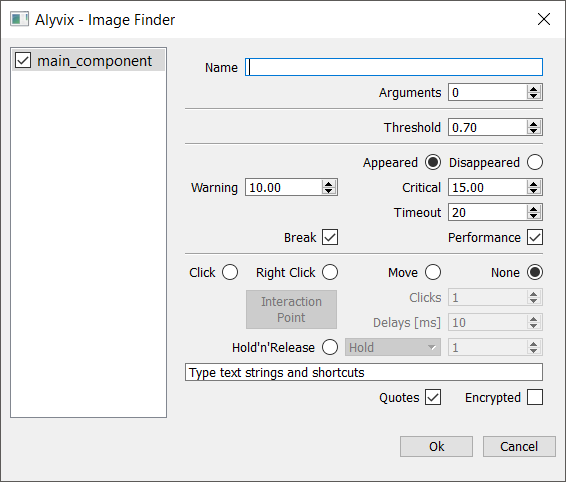
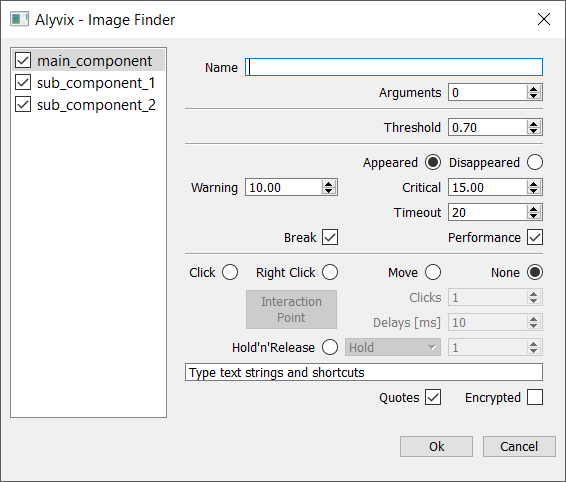
update test case building section

Changed region(s): [[0.03, 0.1556, 0.2703, 0.249]]

diff --git a/test_case_building/visual_keywords.rst b/test_case_building/visual_keywords.rst
@@ -10,24 +10,26 @@ Visual keywords
 Keyword definition
 ==================
 
-The :ref:`Alyvix button <testcase_editor-editor_buttons>` opens the **selector of visual keywords** (that has been previously defined by the user) for the current test case (e.g. ``alyvix_website``, so that its keyword library would be ``AlyvixProxyalyvix_website`` ``.py``). The selector lists the name and the type of each keyword: `[IF]` means Image Finder, `[RF]` means Rect Finder, `[TF]` means Text Finder and `[OF]` stays for Object Finder.
+The :ref:`Alyvix button <testcase_editor-editor_buttons>` opens the **selector of visual keywords** (that has been previously defined by the user) for the current test case (e.g. ``alyvix_website``, so that its keyword library would be ``AlyvixProxyalyvix_website`` ``.py``). The selector shows the name and the type of each keyword: *[IF]* means :ref:`Image Finder <visual_keywords-image_finder>`, *[RF]* means :ref:`Rect Finder <visual_keywords-rect_finder>`, *[TF]* means :ref:`Text Finder <visual_keywords-text_finder>` and *[OF]* stays for :ref:`Object Finder <visual_keywords-object_finder>`.
 
 .. note::
-    Imported keywords from other Alyvix test case libraries (e.g. ``citrix_outlook``, so that its keyword library would be ``AlyvixProxycitrix_outlook`` ``.py``) are not listed in the selector window. You can edit keywords of a certain test case just opening that test case.
+    *Imported keywords* from other *Alyvix test case libraries* (e.g. ``citrix_outlook``, so that its keyword library would be ``AlyvixProxycitrix_outlook`` ``.py``) are *not* listed in the selector window. You can edit keywords in a certain test case library just opening that test case.
 
 ..
 
     .. image:: pictures/ride_05a_keyword_selector.png
 
-The *New* button opens the selector of the Alyvix Finders to define a new visual keyword. The *Edit* button brings to the Finder dialog of the selected keyword, in order to modify its properties (e.g. component and ROI selections, detection and interaction settings, performance thresholds). The *Remove* button deletes the selected keywords or in case of Object Finder keywords, crumbles them into its basic components (e.g. IF, RF, TF).
+The *New* button opens the selector of :ref:`Alyvix Finders <visual_keywords-alyvix_finders>`. The *Edit* button brings to the Finder dialog of the selected keyword, in order to modify its properties (e.g. component and ROI selections, detection and interaction settings, performance thresholds). The *Remove* button deletes the selected keywords or, in case of :ref:`Object Finder <visual_keywords-object_finder>` keywords, crumbles them into its basic components (IF, RF, TF).
 
     .. image:: pictures/ride_05b_finder_selector.png
 
-The Alyvix Finder selector allows selecting the type of a new keyword to define. The ``Delay`` spin control delays the subsequent selection of the main component to start defining a keyword of the selected type.
+The selector of the :ref:`Alyvix Finders <visual_keywords-alyvix_finders>` allows you to select the type (image, rectangle, text, object) of a new keyword to define. The ``Delay`` spin control delays of a given amount of seconds the subsequent selection of components on screen. The graphic definition a visual keyword freezes your screen, in order to select components. Increase the delay if you need time to trigger a certain state of the screen (e.g. opening a menu in an app dialog).
 
-Start defining a custom keyword means visually selecting its components: one main selection is necessary, but then multiple sub selections are possible. The reasons for sub components are to detect application transactions in a more complete (GUI rendering could be element-by-element) and robust (the same GUI element could be used twice) way, besides being able to interact with more GUI elements (i.e. not just with the main component).
+Start defining a *visual keyword* means selecting its components on screen: one *main selection* is necessary, but then multiple *sub selections* are possible. Sub components are selected within their *region of interests*. The latter *ROI* are useful to link sub components to the main component. Each Alyvix Finder has a procedure to select its components and ROI. The important reasons for sub components and their ROI follow below. The detection of application transactions can be:
 
-Each Alyvix Finder has its own procedure to select its components and ROI to bind subs to the main.
+* more *complete*: GUI rendering could be element-by-element, so it could be necessary to detect several components to check a completed transaction; moreover, it is possible to interact with several GUI elements and not just with one;
+* more *robust*: the same GUI element could be used twice, so it could be necessary to define a unique transaction selecting more components;
+* more *flexible*: the same GUI element could be rendered in a different position, so it is necessary to link sub to main components through ROI; moreover, ROI are also useful to restrict the screen area to process, in order to filter out the rest and to save computation time.
 
 
 .. _visual_keywords-image_definition:
@@ -37,18 +39,21 @@ Image Finder main and subs
 
     .. image:: pictures/ride_07a_if_main_sub.png
 
-An example GUI shows three identical stars, but a possible transaction could be interacting with the third, left to the green sign. Selecting just the star, as a main component, is not enough: Alyvix is going to detect all the three stars and to interact with the first one, because of a raster logic scanning the screen.
-To correctly define the keyword, it is necessary to also select the green sign as a sub component. Sub components of Image Finders lies in their ROI. The upper left corner of ROI are all binded with the upper left corner of the main component selection.
+An example GUI shows three identical stars and a possible transaction could be to **interact with the third star**, which is left to the green sign.
+
+Selecting just the third star, as a main component of an *Image Finder*, is not enough. It would be an ambiguous transaction: the three stars have exactly the same aspect. Alyvix detects all the three stars and then interacts with the first one, because of the raster logic of screen scanner.
+
+To correctly define the keyword, it is necessary to **select the green sign as a sub component**. Remember that sub components of Image Finders are selected within their ROI. The upper left corner of ROI are linked with the upper left corner of the main component selection.
 
     .. image:: pictures/ride_07bb_if_main_sub.png
 
 ..
 
-    1. Selection of main component inside the screen
-    2. Selection of the ROI of the sub component 1 inside the screen
-    3. Selection of the sub component 1 inside its ROI
-    4. Eventual repetition of 2. and 3. to add more and more sub components
-    5. Press CTRL + O to access the setting dialog of the Image Finder
+    1. Select the **main component** inside the screen;
+    2. select the **ROI** of the sub component 1 inside the screen;
+    3. select the **sub component** 1 inside its ROI;
+    4. eventually repeat 2. and 3. to add more sub components;
+    5. press :kbd:`CTRL+O` to set the :ref:`IF keyword properties <visual_keywords-image_finder>`.
 
 
 .. _visual_keywords-rect_definition:
@@ -58,7 +63,7 @@ Rect Finder main and subs
 
     .. image:: pictures/ride_07c_rf_main_sub.png
 
-An example GUI shows three identical edit boxes, but a possible transaction could be interacting with the third, left to the ‘OK’ button. Selecting just the edit box, as a main component, is not enough: Alyvix is going to detect all the three edit boxes and to interact with the first one, because of a raster logic scanning the screen.
+An example GUI shows three identical text boxes, but a possible transaction could be interacting with the third, left to the ‘OK’ button. Selecting just the text box, as a main component, is not enough: Alyvix is going to detect all the three text boxes and to interact with the first one, because of a raster logic scanning the screen.
 To correctly define the keyword, it is necessary to also select the ‘OK’ button as a sub component. Sub components of Rect Finders lies in their ROI. The upper left corner of ROI are all binded with the upper left corner of the main component selection.
 
     .. image:: pictures/ride_07db_rf_main_sub.png
@@ -121,19 +126,55 @@ The most common and useful Object Finder combinations are IF + TF and RF + TF.
 Alyvix Finders
 ==============
 
-All the dialogs of Alyvix Finders have in common most of their settings. Right after the component selection of an Alyvix Finder, the  CTRL  +  O  shortcut opens the setting dialog of the Finder where to finalize the definition of an Alyvix custom keyword.
+The *Alyvix Finders* are the GUI tools to **visually define application transactions**. You can build *Alyvix visual keywords* with the Alyvix Finders. Finally, you can automate application transactions running Alyvix visual keywords in test cases. There are three Alyvix Finders, one for each **type of visual element to detect** on screen: images, rectangles and text. The *Object Finder* group together basic Alyvix Finders (IF, RF, TF) in order to detect and interact with **different types of visual elements** running one single keyword (e.g. a login form made of text boxes, their labels on a side and a brand logo in a corner).
 
-The ‘Graphic Design’ tab is the richest of settings. First of all, type the custom keyword name. The best practice is to type a lowercase name, with underscores, no spaces and a structure as the following: <testcase sub section name>_<transaction name>_<finder type> (e.g.mywebsite_homepage_img).
+After the :ref:`selection of an Alyvix Finder <visual_keywords-keyword_definition>` and the :ref:`selection of main and sub components <visual_keywords-image_definition>`, press :kbd:`CTRL+O` to **show the setting dialog**. The Image, Rect and Text Finders have in common most of their settings:
 
-In the left pane there are all the components previously selected: tick or untick them to visualize their selection and ROI on screen or not. Click on each component to set its name, its detection and interaction options.
+* :ref:`Name and components <visual_keywords-name_components>`
+* :ref:`Detection settings <visual_keywords-detection_settings>`
+* :ref:`Interaction settings <visual_keywords-interaction_settings>`
+
+The :ref:`Image Finder <visual_keywords-image_finder>` has its own similarity threshold, the :ref:`Rect Finder <visual_keywords-rect_finder>` has sizing thresholds and the :ref:`Text Finder <visual_keywords-text_finder>` has regular expression filters. The :ref:`Object Finder <visual_keywords-object_finder>` dialog is designed to link together the previous basic Alyvix Finders.
+
+
+.. _visual_keywords-name_components:
+
+Name, arguments and components
+------------------------------
+
+After having :ref:`visually define a keyword <visual_keywords-image_definition>`, the first thing to do is to insert the **keyword name** in the *Name* text box. The best practice is to type **in lowercase**, **with underscores**, **no spaces** and structured as follows: ``<application name>_<transaction name>_<transaction state>`` (e.g. ``citrix_loginform_ready``, ``ax12_dynamicsax_closed``). Append the ``_<keyword type>`` if you plan to use the keyword in an :ref:`Object Finder <visual_keywords-object_finder>`.
+
+You can declare a number of **argument variables as the keyword inputs**. You can then type ``arg1``, ``arg2``, etc. in the :ref:`interaction text box <visual_keywords-interaction_settings>` below. Alyvix will run the keyword taking its **arguments from the test case editor**: in the cells right from where you insert the keyword name, you can type its **arguments as text strings**.
+
+    .. image:: pictures/ride_11a_alyvix_2-4-1_gui_name.png
+
+In the left pane of the dialog there are all the **components** previously selected on screen: tick (or untick) them to visualize (or not) their selection and ROI on screen. Click on each component to set its own detection and interaction properties.
+
+    .. image:: pictures/ride_11b_alyvix_2-4-1_gui_components.png
+
+
+.. _visual_keywords-detection_settings:
+
+Detection settings
+------------------
 
 Three are the detection modes. ‘Wait’ means Alyvix continuously tries and retries to detect the graphic elements on screen at a certain pace (by default this period is 2.5s, but it is customizable thanks to the basic keywords Alyvix Config and Set Alyvix Info). That continues until the ‘Timeout’ threshold will be reached: if the ‘Exception’ option is ticked, then the keyword breaks the test case, otherwise it returns False and lets the test to proceed. The latter option is useful in case of transactions that not always happen (e.g. to manage popups). ‘Wait Disappear’ allows to detect the disappearance of graphic elements of screen (e.g. disappearance of an hourglass icon at the end of a loading).
 
+Finally, the ‘Performance Data’ tab shows the performance settings. First, the ‘Enable Performance’ check box to enable or to disable the performance measurement: for example, in case of automation transactions, that are defined to reach the interesting parts of user flows, we do not care about performances. Second, in the two text boxes we can set the amount of seconds of Warning and Critical thresholds.
+
+    .. image:: pictures/ride_11c_alyvix_2-4-1_gui_detection.png
+
+
+.. _visual_keywords-interaction_settings:
+
+Interaction settings
+--------------------
+
 The available interaction options are self-explained. ‘Click’, ‘Right Click’ and ‘Double Click’ means Alyvix will bring instantly the mouse pointer over the detected component and interact with it pressing, respectively, one time the left button of the mouse, one time the right button of the mouse and two times the left button of the mouse. ‘Move’ will bring instantly the mouse pointer over the detected component without sending any keystroke. ‘Don’t Move’ will do nothing with a component after its detection.
 
-At the bottom of the ‘Graphic Design’ window, typing settings take place. Within the edit box can be inserted text strings and shortcuts to send (most of the time after a ‘Click’ interaction somewhere). Regular text strings can be typed together with shortcuts (e.g. bla{enter}). You can find a list of the most useful shortcuts in the description of  Send Keys basic keyword. However, it is also possible to bring the keyword arguments as part of the keystrokes to send. In this latter case, it is necessary to untick ‘Add Quotes’, then to add one more argument under the ‘Source Code’ tab (click up at the ‘Args’ spin box) and finally use the argument variable alone (e.g. arg1) or properly formatted with the rest, as following example: “bla{enter}”+arg1+”{enter}”.
+At the bottom of the ‘Graphic Design’ window, typing settings take place. Within the text box can be inserted text strings and shortcuts to send (most of the time after a ‘Click’ interaction somewhere). Regular text strings can be typed together with shortcuts (e.g. bla{enter}). You can find a list of the most useful shortcuts in the description of  Send Keys basic keyword. However, it is also possible to bring the keyword arguments as part of the keystrokes to send. In this latter case, it is necessary to untick ‘Add Quotes’, then to add one more argument under the ‘Source Code’ tab (click up at the ‘Args’ spin box) and finally use the argument variable alone (e.g. arg1) or properly formatted with the rest, as following example: “bla{enter}”+arg1+”{enter}”.
 
-Finally, the ‘Performance Data’ tab shows the performance settings. First, the ‘Enable Performance’ check box to enable or to disable the performance measurement: for example, in case of automation transactions, that are defined to reach the interesting parts of user flows, we do not care about performances. Second, in the two edit boxes we can set the amount of seconds of Warning and Critical thresholds.
+    .. image:: pictures/ride_11d_alyvix_2-4-1_gui_interaction.png
 
 
 .. _visual_keywords-image_finder:
@@ -165,9 +206,9 @@ There are two modes in order to define valid rectangles: Min/Max and Tolerance b
 Text Finder
 -----------
 
-In the ‘Text’ edit box of Text Finders you can provide a case insensitive text string (e.g. name) as well as a regular expression (e.g. .*ame). Both of them are going to be match with the text into the selected component ROI. The characters from ROI pass through the ‘WhiteList’ filter: just from that set, the OCR scanner will choose the characters to match with the provided text string. Click on ‘Check’ button to have a preview of what the OCR scanner will detect in the ROI: ‘CRITICAL’ means Alyvix is not able to match the regular expression you have provided, ‘EXCELLENT’ instead means the text component can be found.
+In the ‘Text’ text box of Text Finders you can provide a case insensitive text string (e.g. name) as well as a regular expression (e.g. .*ame). Both of them are going to be match with the text into the selected component ROI. The characters from ROI pass through the ‘WhiteList’ filter: just from that set, the OCR scanner will choose the characters to match with the provided text string. Click on ‘Check’ button to have a preview of what the OCR scanner will detect in the ROI: ‘CRITICAL’ means Alyvix is not able to match the regular expression you have provided, ‘EXCELLENT’ instead means the text component can be found.
 
-In the ‘Text’ edit box can be also used arguments. If you want to pass a text string or a regular expression to a Text Finder custom keyword as its argument, type arg<n> (e.g. arg1) in the edit box, untick ‘Add Quotes’, add one more ‘Args’ under the ‘Source Code’ tab and finally remember to pass a text to match as the keyword argument (e.g. mywebsite_userlist_txt | .*ame).
+In the ‘Text’ text box can be also used arguments. If you want to pass a text string or a regular expression to a Text Finder custom keyword as its argument, type arg<n> (e.g. arg1) in the text box, untick ‘Add Quotes’, add one more ‘Args’ under the ‘Source Code’ tab and finally remember to pass a text to match as the keyword argument (e.g. mywebsite_userlist_txt | .*ame).
 
     .. image:: pictures/ride_09_text_finder.png
 

diff --git a/getting_started/install_without_internet.rst b/getting_started/install_without_internet.rst
@@ -6,9 +6,9 @@ If your probe can **NOT** reach Internet through Command Prompt.. do not worry! 
 
   1. Install Anaconda
 
-    * move Anaconda installer from an Internet connected machine: download Anaconda installer, browsing https://www.continuum.io/downloads and strictly clicking the version based on Python 2.7 for Windows 64bit
+  * move Anaconda installer from an Internet connected machine: download Anaconda installer, browsing https://repo.continuum.io/archive/Anaconda2-4.3.1-Windows-x86_64.exe (i.e. strictly download Anaconda2 4.3.1, based on Python 2.7, for Windows 64bit)
 
-    * run Anaconda installer (e.g. ``Anaconda2-x.x.x-Windows-x86_64.exe``) **as administrator**, installing Anaconda **for all users** and right in ``C:\Anaconda2``
+  * run Anaconda installer (e.g. ``Anaconda2-4.3.1-Windows-x86_64.exe``) **as administrator**, installing Anaconda **for all users** and right in ``C:\Anaconda2``
 
   2. Install PyQt ``conda`` package
 

diff --git a/getting_started/install_with_internet.rst b/getting_started/install_with_internet.rst
@@ -6,9 +6,9 @@ If your probe can reach Internet through Command Prompt, you can install Alyvix 
 
   1. Install Anaconda
 
-    * download Anaconda installer, browsing https://www.continuum.io/downloads and strictly clicking the version based on Python 2.7 for Windows 64bit
+    * download Anaconda installer, browsing https://repo.continuum.io/archive/Anaconda2-4.3.1-Windows-x86_64.exe (i.e. strictly download Anaconda2 4.3.1, based on Python 2.7, for Windows 64bit)
 
-    * run Anaconda installer (e.g. ``Anaconda2-x.x.x-Windows-x86_64.exe``) **as administrator**, installing Anaconda **for all users** and right in ``C:\Anaconda2``
+    * run Anaconda installer (e.g. ``Anaconda2-4.3.1-Windows-x86_64.exe``) **as administrator**, installing Anaconda **for all users** and right in ``C:\Anaconda2``
 
   2. Install Alyvix ``conda`` package
 
